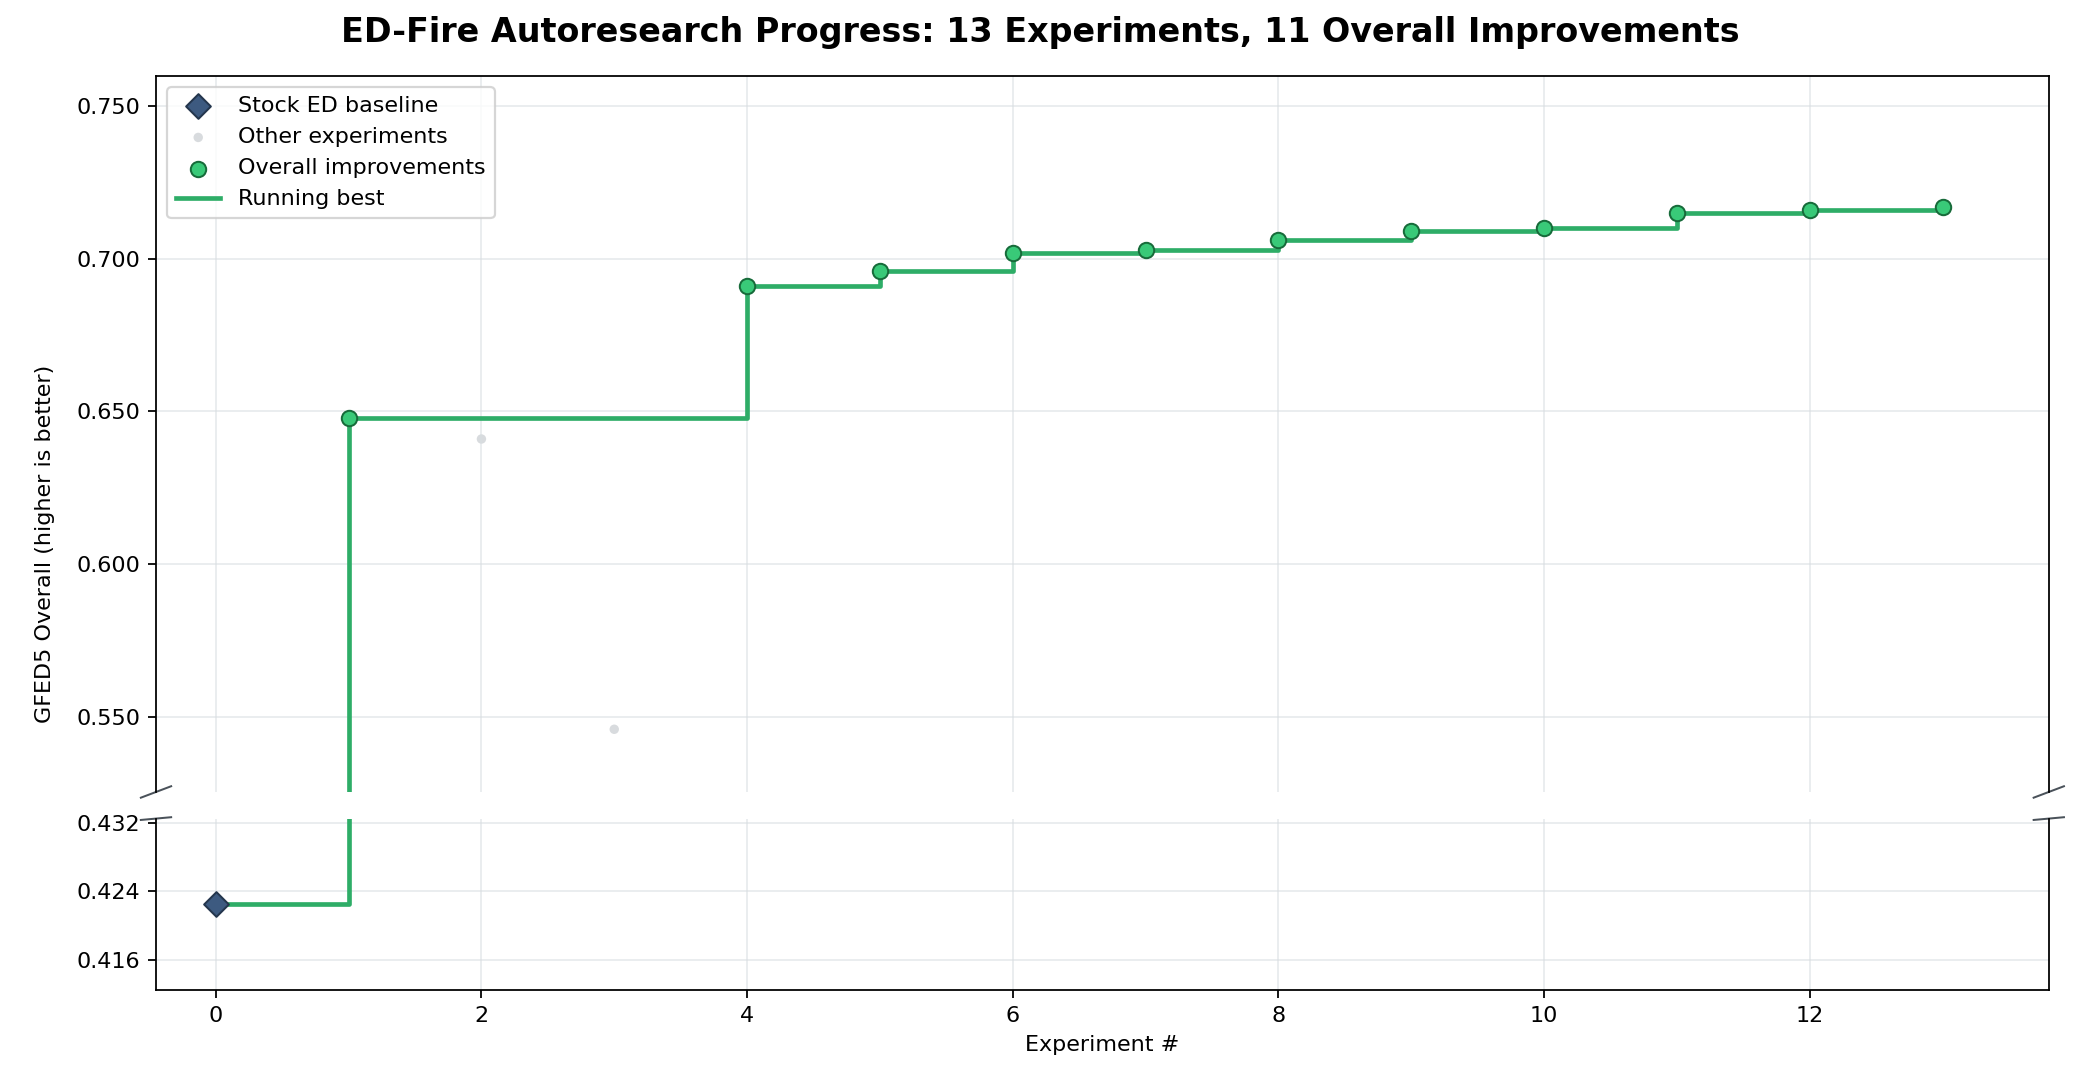
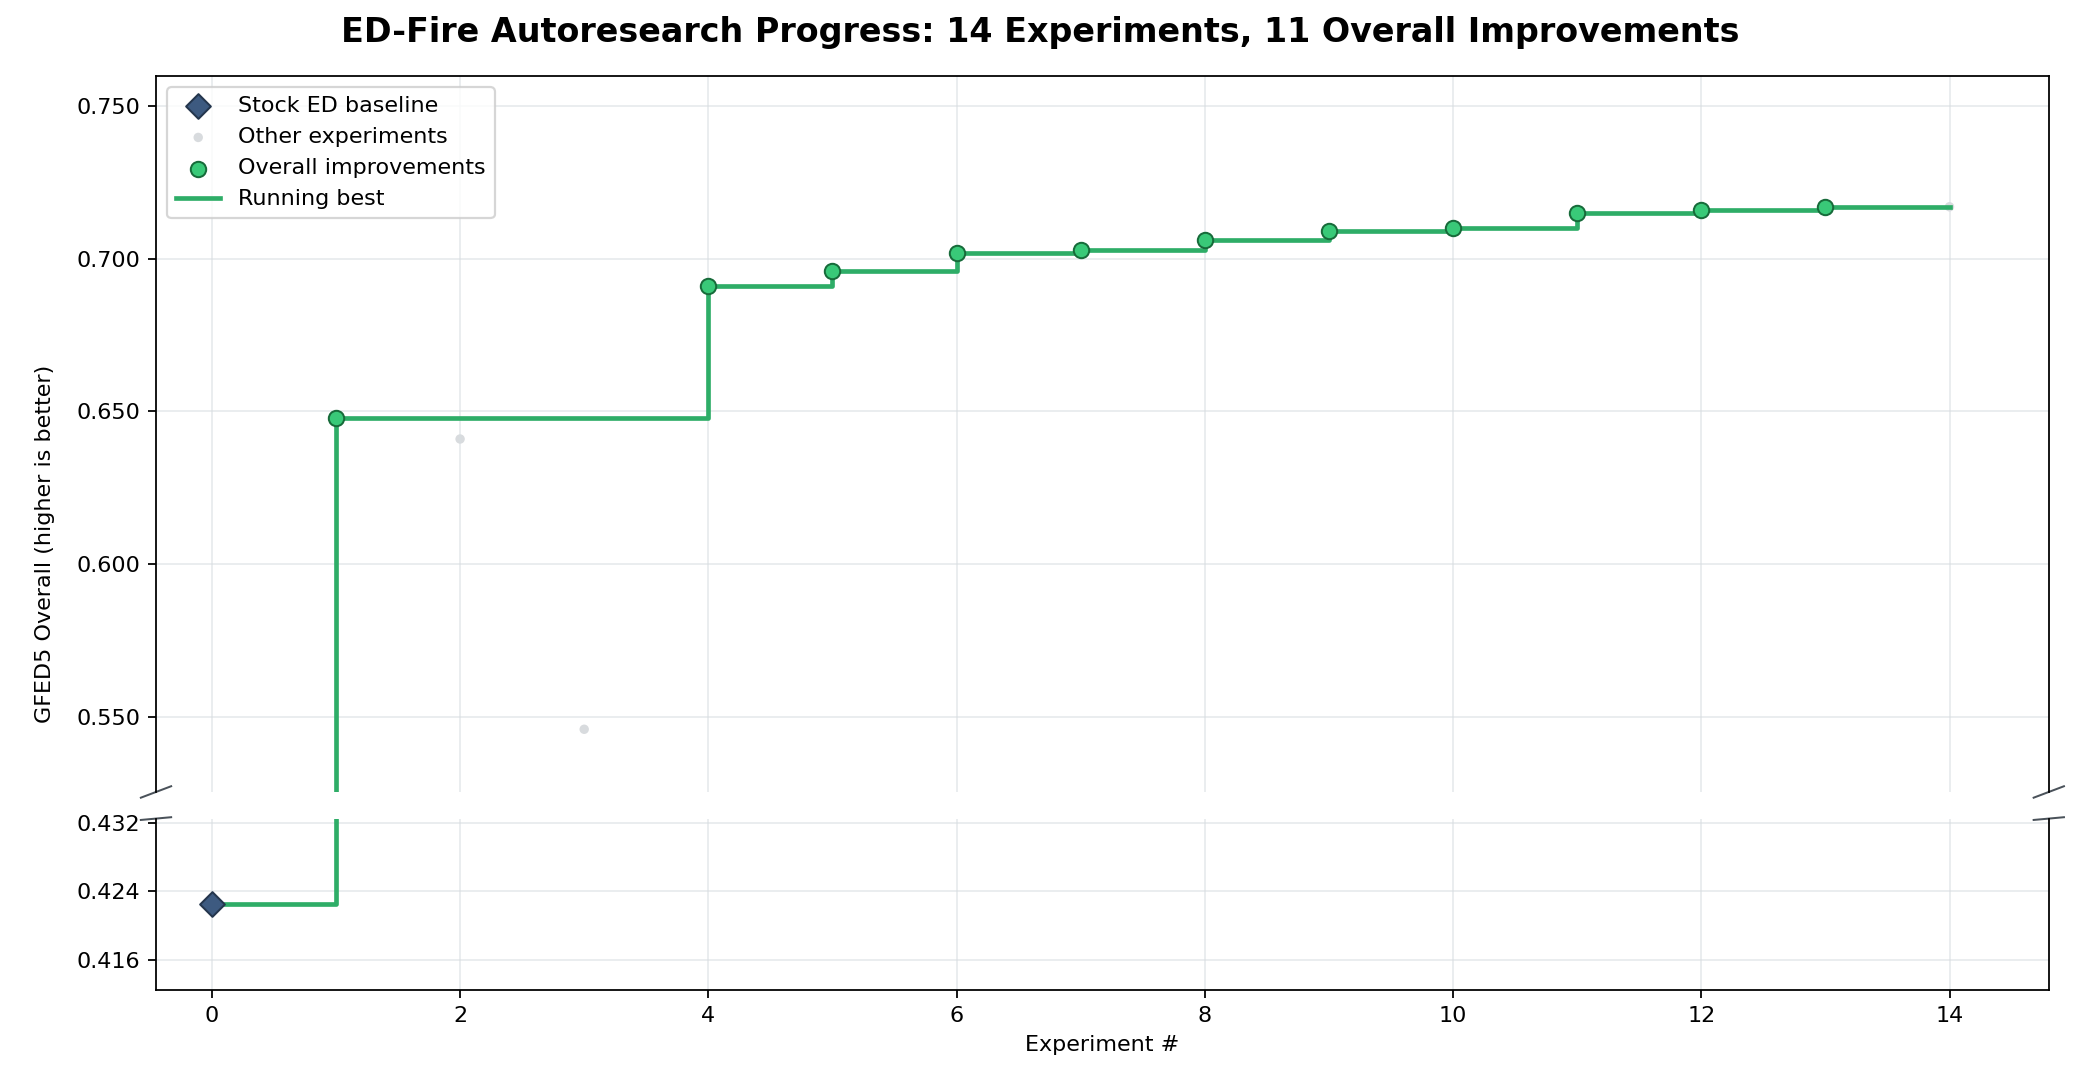
Record pruned mechanistic official score

diff --git a/autoresearch/scratchpad/thread.md b/autoresearch/scratchpad/thread.md
@@ -4428,3 +4428,12 @@ site-independent inputs, neither the full causal held-out learner (~.723 in the 
 audit) nor this high-weight focused learner (~.721) supports an honest path to .8. The
 in-sample .8 surfaces are benchmark-fitting diagnostics and must not be promoted. Optuna
 remains unjustified because the structural families are flat or negative.
+
+
+### Entry 125: pruned canonical line confirmed official .717
+
+The drought-maturation-pruned canonical model at `d62a22b` evaluates officially at
+**.717** (bias .754, RMSE .546, seasonal .862, spatial .877). This is the current
+mechanistic official, contains no fitted or geographic runtime, and matches the exact
+proxy .716889. The evaluation records the simplified thirteen-component line after the
+negative structural round; no diagnostic candidate enters the ledger.
